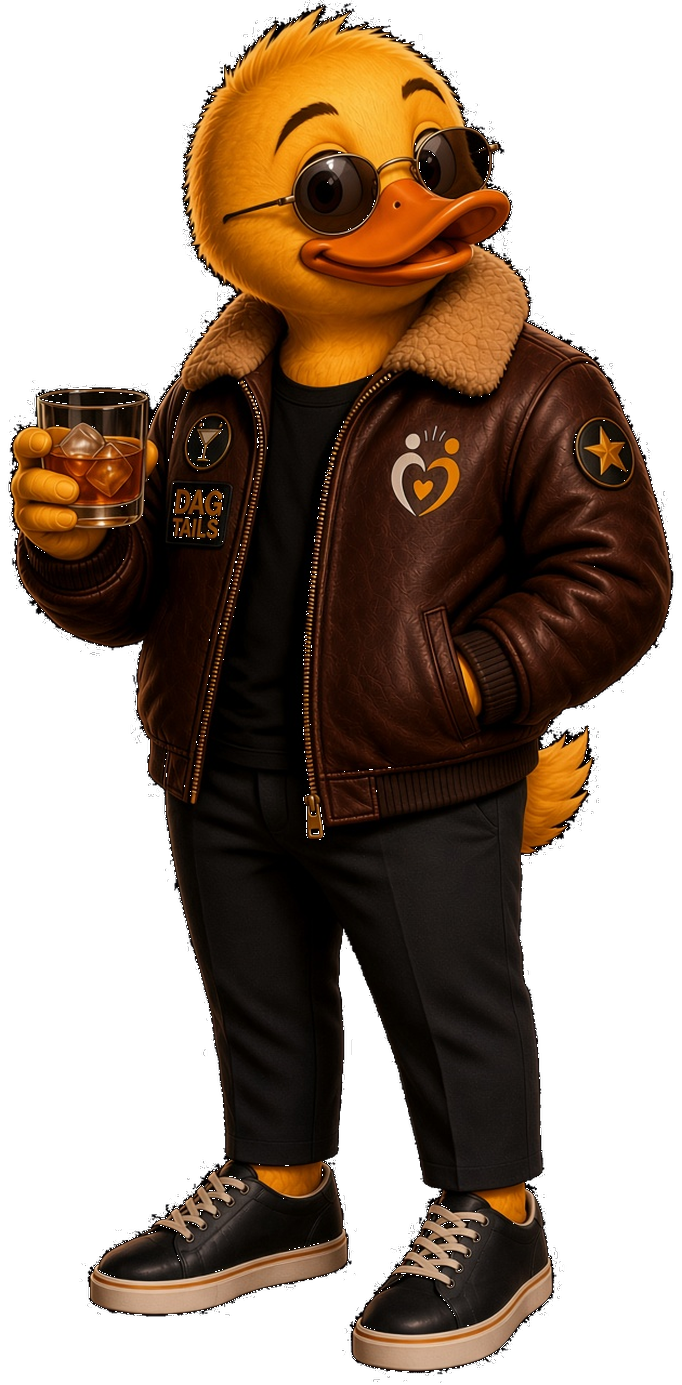
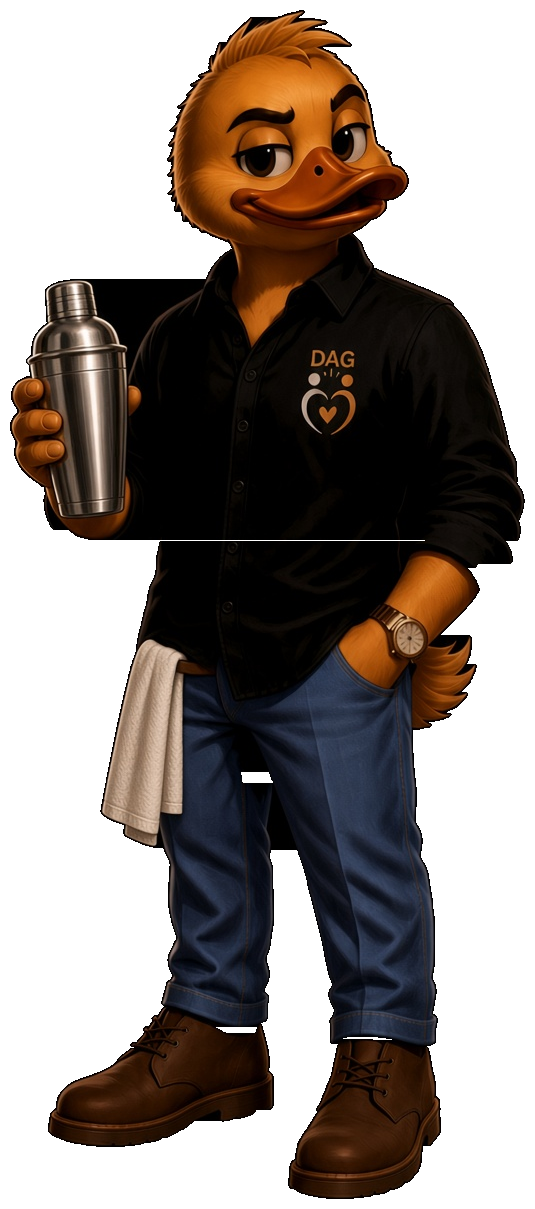
v1.16.37 - brand update to DAG Factory in splash and legal documents; v18 duck mascot progression

diff --git a/docs/legal/pack-counsel-review.js b/docs/legal/pack-counsel-review.js
@@ -146,7 +146,7 @@ write(
 **Status:** Working file for counsel. **Not legal advice.** Not an executed opinion, clearance, privacy policy, or assignment.
 
 **Product:** DAG Tails (bartending game)  
-**Operator (placeholder):** DAG.com, operating DAG Tails  
+**Operator (placeholder):** DAG Factory (dagfactory.com), operating DAG Tails  
 **Live beta:** https://dag-com.github.io/dagtails/  
 **Repo:** https://github.com/dag-com/dagtails  
 **Packed:** ${new Date().toISOString().slice(0, 10)}
@@ -255,7 +255,7 @@ Ask: OFL embedding ok? Any extra notice in the app?
 - Static web game on GitHub Pages; backend is Supabase (email OTP, Postgres, RLS).
 - Closed beta: allowlisted emails in \`public.beta_testers\`.
 - Local / Playwright play stays anonymous Auth.
-- Operator placeholder: DAG.com operating DAG Tails.
+- Operator placeholder: DAG Factory (dagfactory.com) operating DAG Tails.
 `
 );
 
@@ -373,6 +373,7 @@ copyFile(path.join("node_modules", "@fontsource", "bebas-neue", "LICENSE"), path
 
 copyFile(path.join("assets", "brand", "dag-tails-logo.png"), path.join("brand-images", "dag-tails-logo.png"));
 copyFile(path.join("assets", "duck-hub-mascot.png"), path.join("brand-images", "duck-hub-mascot.png"));
+copyFile(path.join("assets", "duck-hub-mascot-bib.png"), path.join("brand-images", "duck-hub-mascot-bib.png"));
 copyFile(path.join("assets", "duck-hub-mascot-jacket.png"), path.join("brand-images", "duck-hub-mascot-jacket.png"));
 copyFile(path.join("assets", "duck-hub-mascot-ace.png"), path.join("brand-images", "duck-hub-mascot-ace.png"));
 
@@ -383,9 +384,10 @@ write(
 These are the files actually used on hub / splash / rank-up. Mocks (horses, K9s, apes, unused jacket studies) are **not** included.
 
 - \`dag-tails-logo.png\` — current wordmark
-- \`duck-hub-mascot.png\` — hoodie guide
-- \`duck-hub-mascot-jacket.png\` — skipper bomber rank (DAG tapes, shearling G-1; not the house service jacket)
-- \`duck-hub-mascot-ace.png\` — Ace bomber. Generic gold aviators (no temple logo). Plain cupsole sneakers (foxing line only, no jazz stripe).
+- \`duck-hub-mascot.png\` — hoodie guide (intro, tutorial, Trainee)
+- \`duck-hub-mascot-bib.png\` — Barback bib
+- \`duck-hub-mascot-jacket.png\` — floor bartender (black shirt, jeans, shaker)
+- \`duck-hub-mascot-ace.png\` — Ace vest, glasses, snifter. Generic round spectacles (no logos). Oxfords, no jazz stripe.
 `
 );
 

diff --git a/game.js b/game.js
@@ -929,13 +929,15 @@ function renderSplash() {
   const chipStreak = $("#splash-chip-streak");
   const chipStars = $("#splash-chip-stars");
 
+  const hero = $("#splash-hero-img");
   if (!p) {
     greet.textContent = "Welcome to DAG Tails.";
-    sub.textContent = "A bartending game from DAG.com — tap to set up your bartender and begin.";
+    sub.textContent = "A bartending game from DAG Factory — tap to set up your bartender and begin.";
     if (continueBtn) continueBtn.textContent = "Get started →";
     if (chipLevel) chipLevel.textContent = "";
     if (chipStreak) chipStreak.textContent = "";
     if (chipStars) chipStars.textContent = "";
+    if (hero) hero.src = mascotSrcForRank(0);
     return;
   }
 
@@ -964,6 +966,7 @@ function renderSplash() {
   if (chipLevel) chipLevel.textContent = `${rk.emoji} Lv ${lvl} · ${rk.name}`;
   if (chipStreak) chipStreak.textContent = daily.streak > 0 ? `🔥 ${daily.streak}-day streak` : "🔥 Start a streak today";
   if (chipStars) chipStars.textContent = `⭐ ${totalStars()} stars`;
+  if (hero) hero.src = mascotSrcForRank(rankForCleared(cleared));
 }
 
 function dismissSplash() {
@@ -1000,17 +1003,25 @@ function nextRewardCopy(map, prog) {
   };
 }
 
-// The apprentice duck mascot visually levels up as the player climbs bartender
-// titles (still paced by cleared stages, independent of crawl venues):
-// hoodie -> skipper shearling bomber -> full "ace" look.
+// The apprentice duck visually levels up with bartender titles (cleared stages):
+// intro/Trainee hoodie -> Barback bib -> floor bartender (jeans) -> Ace vest.
 function mascotTierClass(rankIdx) {
-  if (rankIdx >= 5) return "tier-3";
+  if (rankIdx >= 3) return "tier-3";
   if (rankIdx >= 2) return "tier-2";
+  if (rankIdx >= 1) return "tier-1";
   return "";
+}
+function mascotSrcForRank(rankIdx) {
+  const tier = mascotTierClass(rankIdx);
+  if (tier === "tier-3") return "assets/duck-hub-mascot-ace.png";
+  if (tier === "tier-2") return "assets/duck-hub-mascot-jacket.png";
+  if (tier === "tier-1") return "assets/duck-hub-mascot-bib.png";
+  return "assets/duck-hub-mascot.png";
 }
 function applyMascotTier(el, rankIdx) {
   if (!el) return;
   const tier = mascotTierClass(rankIdx);
+  el.classList.toggle("tier-1", tier === "tier-1");
   el.classList.toggle("tier-2", tier === "tier-2");
   el.classList.toggle("tier-3", tier === "tier-3");
 }

diff --git a/public/legal/privacy.html b/public/legal/privacy.html
@@ -36,7 +36,7 @@
     <main>
       <h1>Privacy notice — DAG Tails (placeholder)</h1>
       <p><strong>Product:</strong> DAG Tails (a bartending game)<br />
-      <strong>Operator (placeholder legal name):</strong> DAG.com, operating DAG Tails<br />
+      <strong>Operator (placeholder legal name):</strong> DAG Factory (dagfactory.com), operating DAG Tails<br />
       <strong>Last updated:</strong> 6 September 2026</p>
 
       <h2>1. Who this is for</h2>
@@ -66,7 +66,7 @@
       </ul>
 
       <h2>4. Intellectual property — cocktails you build</h2>
-      <p><strong>Placeholder — lawyer must confirm.</strong> Every cocktail, recipe, drink name, garnish combination, and Community share you create in DAG Tails is the <strong>property of the operator</strong> (placeholder: DAG.com / DAG Tails). You get a limited licence to play the game and to display your public alias with those creations. You do not keep ownership of in-game recipes or shares. Classic real-world drink names that appear as catalogue titles remain third-party recipe names used as game content, not a claim that the operator invented those classics.</p>
+      <p><strong>Placeholder — lawyer must confirm.</strong> Every cocktail, recipe, drink name, garnish combination, and Community share you create in DAG Tails is the <strong>property of the operator</strong> (placeholder: DAG Factory / dagfactory.com / DAG Tails). You get a limited licence to play the game and to display your public alias with those creations. You do not keep ownership of in-game recipes or shares. Classic real-world drink names that appear as catalogue titles remain third-party recipe names used as game content, not a claim that the operator invented those classics.</p>
 
       <h2>5. Who can see data</h2>
       <ul>

diff --git a/tests/hub-layout.spec.js b/tests/hub-layout.spec.js
@@ -139,4 +139,30 @@ test.describe("hub layout integrity", () => {
     });
     expect(ok).toBeTruthy();
   });
+
+  test("hub mascot follows V18 rank clothes", async ({ page }) => {
+    const cases = [
+      { cleared: 0, tier: "", asset: /duck-hub-mascot-[A-Za-z0-9_-]+\.png/, forbid: /bib|jacket|ace/ },
+      { cleared: 8, tier: "tier-1", asset: /duck-hub-mascot-bib-/ },
+      { cleared: 16, tier: "tier-2", asset: /duck-hub-mascot-jacket-/ },
+      { cleared: 24, tier: "tier-3", asset: /duck-hub-mascot-ace-/ },
+    ];
+    for (const { cleared, tier, asset, forbid } of cases) {
+      await seedPlayer(page, { cleared });
+      await gotoHub(page);
+      const report = await page.evaluate(() => {
+        const duck = document.querySelector("#hub-duck");
+        const bg = duck ? getComputedStyle(duck).backgroundImage : "";
+        return { className: duck ? duck.className : "", bg };
+      });
+      if (tier) expect(report.className, `cleared ${cleared}`).toContain(tier);
+      else {
+        expect(report.className).not.toContain("tier-1");
+        expect(report.className).not.toContain("tier-2");
+        expect(report.className).not.toContain("tier-3");
+      }
+      expect(report.bg, `cleared ${cleared}`).toMatch(asset);
+      if (forbid) expect(report.bg, `cleared ${cleared}`).not.toMatch(forbid);
+    }
+  });
 });

diff --git a/styles.css b/styles.css
@@ -3692,7 +3692,7 @@ body {
   flex-shrink: 0;
 }
 
-/* ============================ Start hero (DAG.com duck) ============================ */
+/* ============================ Start hero (DAG Factory duck) ============================ */
 #screen-start.is-active {
   position: relative;
   min-height: 100dvh;
@@ -5812,14 +5812,16 @@ body.is-phone-play .chip {
     linear-gradient(180deg, rgba(0, 0, 0, 0.08), rgba(0, 0, 0, 0.55)),
     linear-gradient(180deg, #120b1f 0%, #140d22 44%, #0c0814 100%);
 }
-/* Shared rank-based mascot: the apprentice duck visually levels up as the
-   player climbs ranks (hoodie -> skipper bomber -> "ace" look). */
+/* Shared rank-based mascot: intro hoodie, then bib -> floor bartender -> Ace vest. */
 .mascot-duck {
   background-image: url("assets/duck-hub-mascot.png");
   background-position: center bottom;
   background-size: contain;
   background-repeat: no-repeat;
   filter: drop-shadow(0 14px 26px rgba(0, 0, 0, 0.55));
+}
+.mascot-duck.tier-1 {
+  background-image: url("assets/duck-hub-mascot-bib.png");
 }
 .mascot-duck.tier-2 {
   background-image: url("assets/duck-hub-mascot-jacket.png");

diff --git a/index.html b/index.html
@@ -125,11 +125,11 @@
           <img
             class="splash-hero-img"
             id="splash-hero-img"
-            src="assets/duck-hub-mascot-ace.png"
+            src="assets/duck-hub-mascot.png"
             alt=""
             draggable="false"
           />
-          <p class="eyebrow">A DAG.com game</p>
+          <p class="eyebrow">A DAG Factory game</p>
           <p class="splash-greet" id="splash-greet">Welcome.</p>
           <p class="splash-sub" id="splash-sub">Your next shift is ready.</p>
           <div class="splash-chips">

diff --git a/tests/assets-integrity.spec.js b/tests/assets-integrity.spec.js
@@ -10,6 +10,9 @@ const RUNTIME_PATHS = [
   "assets/judges/house-taste.png",
   "assets/station/bar-stage.png",
   "assets/duck-hub-mascot.png",
+  "assets/duck-hub-mascot-bib.png",
+  "assets/duck-hub-mascot-jacket.png",
+  "assets/duck-hub-mascot-ace.png",
   "assets/brand/dag-tails-logo.png",
   "assets/shop/jigger.svg",
   "legal/privacy.html",

diff --git a/src/hub/types.ts b/src/hub/types.ts
@@ -8,7 +8,7 @@ export type HubSnapshot = {
   stars: number;
   welcomeMain: string;
   welcomeSub: string;
-  mascotTier: "" | "tier-2" | "tier-3";
+  mascotTier: "" | "tier-1" | "tier-2" | "tier-3";
   cotdName: string;
   cotdDone: boolean;
   cotdBtnLabel: string;

diff --git a/scripts/install-v18-mascots.py b/scripts/install-v18-mascots.py
@@ -1,0 +1,97 @@
+"""Rematte V18 mascots onto transparent PNGs without eating black clothes."""
+from pathlib import Path
+import shutil
+import numpy as np
+from PIL import Image
+
+ROOT = Path(r"c:\Users\Danny\Projects\new-project")
+BACKUP = ROOT / "mocks" / "live-before-v18"
+BACKUP.mkdir(parents=True, exist_ok=True)
+
+LIVE = {
+    "hoodie": ROOT / "assets" / "duck-hub-mascot.png",
+    "jacket": ROOT / "assets" / "duck-hub-mascot-jacket.png",
+    "ace": ROOT / "assets" / "duck-hub-mascot-ace.png",
+}
+
+SOURCES = {
+    "hoodie": ROOT / "mocks" / "duck-age" / "duck-age-bar-v13-01-kid-canvas.png",
+    "bib": ROOT / "mocks" / "duck-age" / "duck-age-bar-v14-02-bib-runner.png",
+    "floor": ROOT / "mocks" / "duck-age" / "duck-age-bar-v18-03-towel.png",
+    "ace": Path(
+        r"C:\Users\Danny\.cursor\projects\c-Users-Danny-Projects-new-project\assets\duck-age-bar-ace-snifter.png"
+    ),
+}
+
+OUT = {
+    "hoodie": LIVE["hoodie"],
+    "bib": ROOT / "assets" / "duck-hub-mascot-bib.png",
+    "floor": LIVE["jacket"],
+    "ace": LIVE["ace"],
+}
+
+
+def silhouette(rgb, thresh=14):
+    char = rgb.max(axis=2) > thresh
+    h, w = char.shape
+    ys, xs = np.where(char)
+    if len(ys) == 0:
+        return char
+    y0, y1 = int(ys.min()), int(ys.max())
+    torso_end = y0 + int(0.64 * (y1 - y0))
+    filled = char.copy()
+    for y in range(y0, y1 + 1):
+        cols = np.where(char[y])[0]
+        if len(cols) < 2:
+            continue
+        if y <= torso_end:
+            filled[y, cols.min() : cols.max() + 1] = True
+        else:
+            # fill only tiny gaps (anti-alias / boot laces), not the space between legs
+            start = cols[0]
+            prev = cols[0]
+            for x in cols[1:]:
+                if x - prev > 28:
+                    filled[y, start : prev + 1] = True
+                    start = x
+                prev = x
+            filled[y, start : prev + 1] = True
+    return filled
+
+
+def rematte(src: Path) -> Image.Image:
+    rgb = np.array(Image.open(src).convert("RGB"))
+    mask = silhouette(rgb)
+    alpha = np.where(mask, 255, 0).astype(np.uint8)
+    # slight dilate for fringe
+    padm = np.pad(mask, 1)
+    dil = padm[1:-1, 1:-1] | padm[:-2, 1:-1] | padm[2:, 1:-1] | padm[1:-1, :-2] | padm[1:-1, 2:]
+    alpha = np.where(dil, 255, 0).astype(np.uint8)
+    arr = np.dstack([rgb, alpha])
+    ys, xs = np.where(alpha > 0)
+    pad = 10
+    y0 = max(0, int(ys.min()) - pad)
+    y1 = min(arr.shape[0], int(ys.max()) + pad + 1)
+    x0 = max(0, int(xs.min()) - pad)
+    x1 = min(arr.shape[1], int(xs.max()) + pad + 1)
+    return Image.fromarray(arr[y0:y1, x0:x1])
+
+
+def main():
+    for key, path in LIVE.items():
+        dest = BACKUP / path.name
+        if path.exists() and not dest.exists():
+            shutil.copy2(path, dest)
+            print("backed up", path.name)
+
+    for key, src in SOURCES.items():
+        if not src.exists():
+            raise SystemExit(f"missing source {src}")
+        img = rematte(src)
+        out = OUT[key]
+        img.save(out, "PNG")
+        print("wrote", out.relative_to(ROOT), img.size, img.mode)
+
+
+if __name__ == "__main__":
+    main()

diff --git a/docs/legal/PRIVACY-NOTICE.md b/docs/legal/PRIVACY-NOTICE.md
@@ -3,7 +3,7 @@
 **Status:** Draft for lawyer review. This is **not** an in-force privacy policy, terms of service, or copyright assignment. Replace this file with counsel-approved text before a public or store launch.
 
 **Product:** DAG Tails (a bartending game)  
-**Operator (placeholder legal name):** DAG.com, operating DAG Tails  
+**Operator (placeholder legal name):** DAG Factory (dagfactory.com), operating DAG Tails  
 **Last updated:** 6 September 2026  
 
 ---
@@ -35,7 +35,7 @@ Analytics events are **not** supposed to include your private name, age, or emai
 
 ## 4. Intellectual property — cocktails you build
 
-**Placeholder — lawyer must confirm.** Every cocktail, recipe, drink name, garnish combination, and Community share you create in DAG Tails is the **property of the operator** (placeholder: DAG.com / DAG Tails). You get a limited licence to play the game and to display your public alias with those creations. You do not keep ownership of in-game recipes or shares. Classic real-world drink names that appear as catalogue titles remain third-party recipe names used as game content, not a claim that the operator invented those classics.
+**Placeholder — lawyer must confirm.** Every cocktail, recipe, drink name, garnish combination, and Community share you create in DAG Tails is the **property of the operator** (placeholder: DAG Factory / dagfactory.com / DAG Tails). You get a limited licence to play the game and to display your public alias with those creations. You do not keep ownership of in-game recipes or shares. Classic real-world drink names that appear as catalogue titles remain third-party recipe names used as game content, not a claim that the operator invented those classics.
 
 ## 5. Who can see data
 

diff --git a/docs/legal/BETA-TESTER-EMAIL.md b/docs/legal/BETA-TESTER-EMAIL.md
@@ -2,7 +2,7 @@
 
 **Status:** Draft for lawyer review. Do not treat as a binding contract. Replace before sending at scale.
 
-**Suggested from:** the operator who invites testers (placeholder: DAG.com / DAG Tails)  
+**Suggested from:** the operator who invites testers (placeholder: DAG Factory / dagfactory.com / DAG Tails)  
 **Suggested subject:** You’re invited to the DAG Tails private beta
 
 ---
@@ -22,7 +22,7 @@ You’re invited to try **DAG Tails**, a private-beta bartending game.
 Play how the beta is used (screens, drinks started or served, a device id). Your invite email so we can send the login code. Your public alias on Community. Your private name and age stay on your device. Full placeholder notice: the in-game **Privacy notice** link, or `docs/legal/PRIVACY-NOTICE.md` in the repo.
 
 **What you make in the game**  
-Placeholder: cocktails, recipes, names, and shares you build in DAG Tails belong to the operator (DAG.com / DAG Tails). You get to play; you don’t keep IP in those creations. A lawyer must confirm this sentence.
+Placeholder: cocktails, recipes, names, and shares you build in DAG Tails belong to the operator (DAG Factory / dagfactory.com / DAG Tails). You get to play; you don’t keep IP in those creations. A lawyer must confirm this sentence.
 
 **Please**  
 - Be 18 or older  

diff --git a/docs/legal/COVER-NOTE.md b/docs/legal/COVER-NOTE.md
@@ -17,7 +17,7 @@ Placeholder pack only. Not legal advice. Not an executed policy.
 - Public display name is **alias only** (`players.name`). Legal/private name and age stay in browser `localStorage`.
 - Usage events in `public.events` (no public SELECT). Player-reports are aggregated.
 - Fonts: self-hosted SIL OFL (Inter, Bebas Neue) via `@fontsource/*` — no Google Fonts request.
-- Operator placeholder: DAG.com operating DAG Tails.
+- Operator placeholder: DAG Factory (dagfactory.com) operating DAG Tails.
 
 ## Please replace
 
